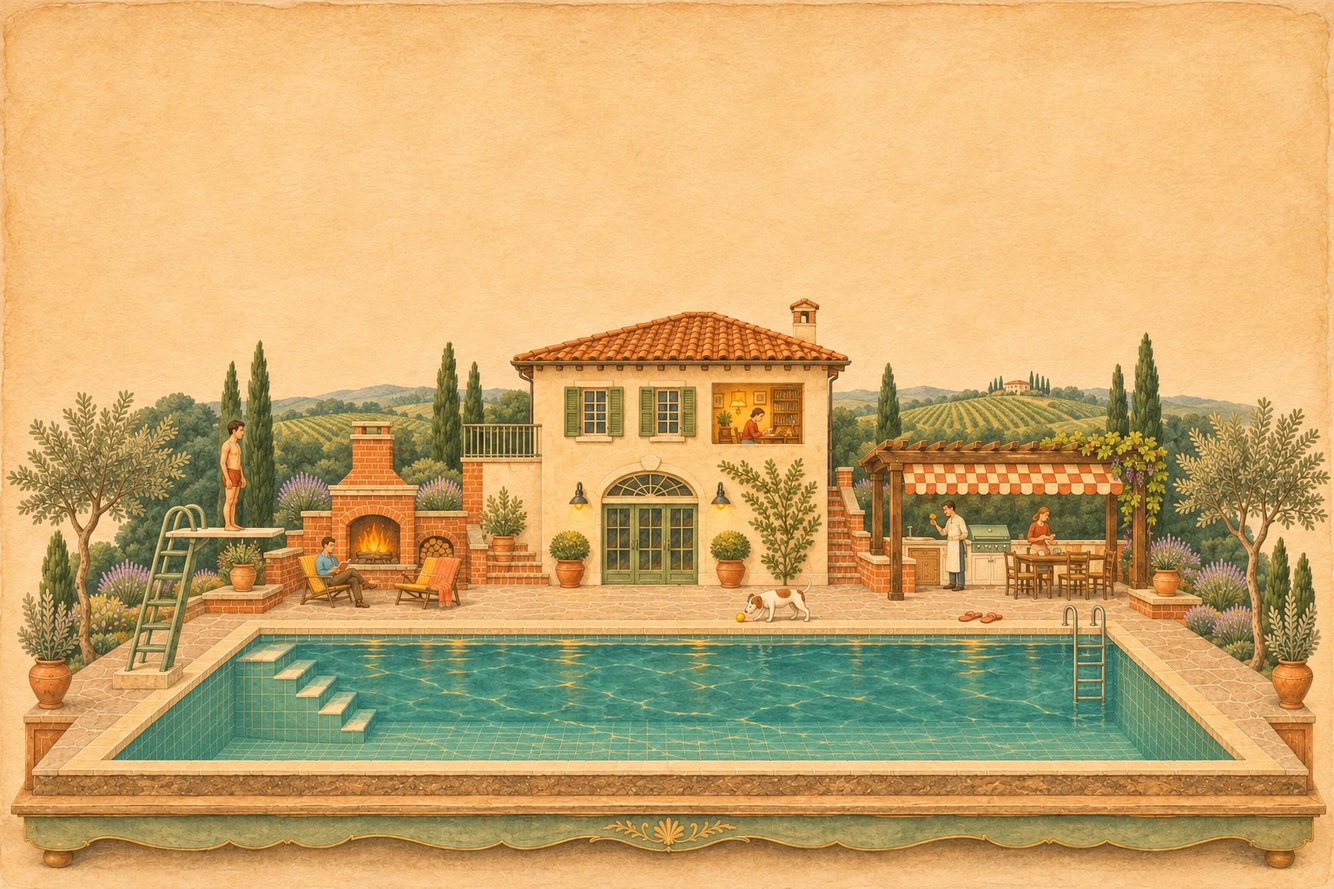
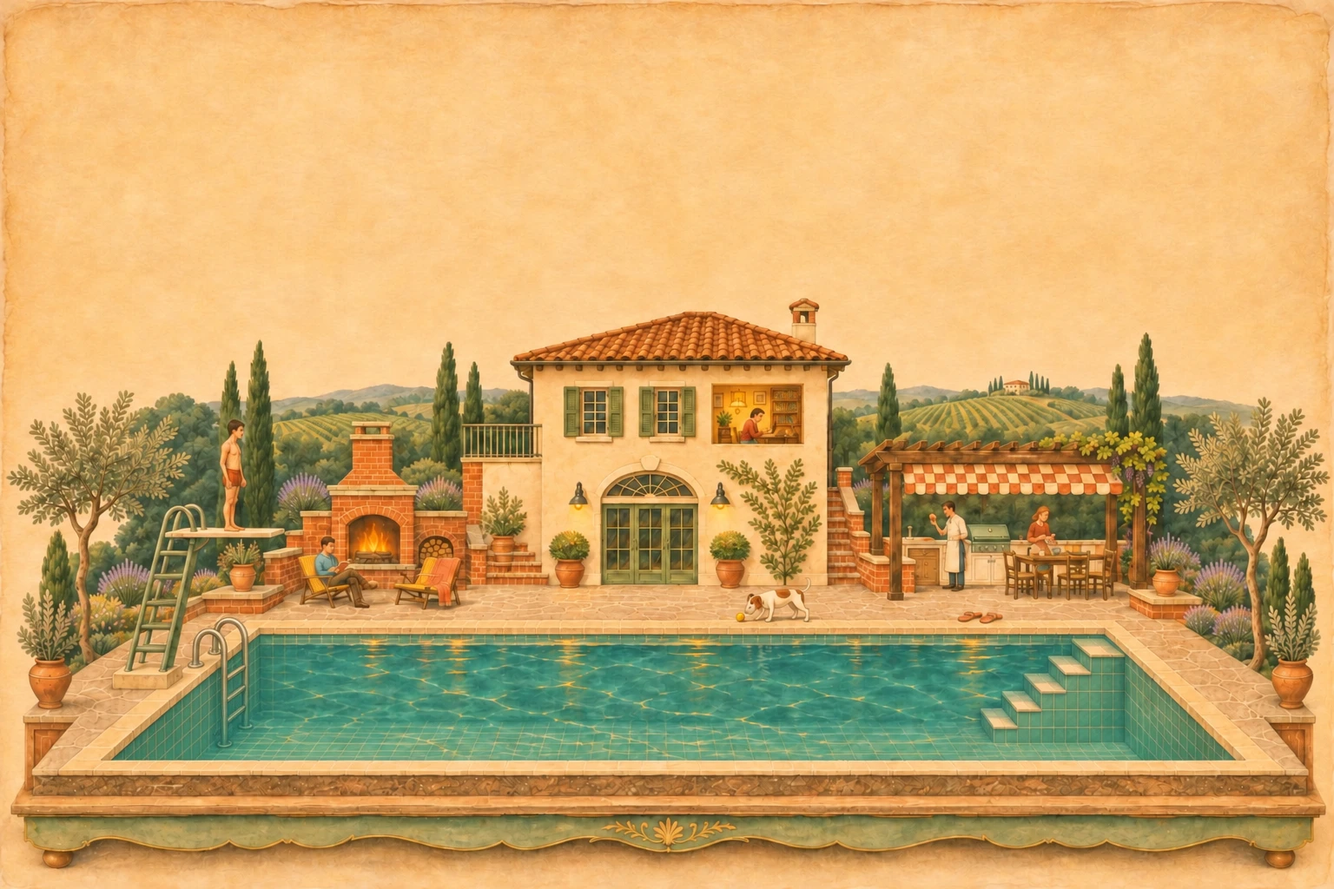
Carry the Italian villa identity through all website sections and fix pool access positions

diff --git a/public/index.html b/public/index.html
@@ -1,6 +1,6 @@
 <!DOCTYPE html>
 
-<html lang="en"><head><meta charset="utf-8"/><meta content="width=device-width,initial-scale=1,viewport-fit=cover" name="viewport"/><meta content="index,follow" name="robots"/><meta content="#f8f1e5" name="theme-color"/><meta content="Family-owned custom pool and complete backyard builder serving Denton County and North Texas." name="description"/><title>Collins Custom Pools &amp; Backyards | Denton County, Texas</title><link rel="canonical" href="https://collins-website.chasehess-hq.workers.dev/"/><meta property="og:type" content="website"/><meta property="og:title" content="Collins Custom Pools &amp; Backyards"/><meta property="og:description" content="Family-owned. Custom pools and complete backyards in Denton County and surrounding North Texas communities. Come on out. Have a look around."/><meta property="og:url" content="https://collins-website.chasehess-hq.workers.dev/"/><meta property="og:image" content="https://collins-website.chasehess-hq.workers.dev/assets/collins-cover.webp"/><meta property="og:image:alt" content="The illustrated Collins backyard, with a pool, fireplace, outdoor kitchen and tiny submarine."/><meta name="twitter:card" content="summary_large_image"/><link as="image" href="assets/collins-cover.webp" rel="preload"/><link href="styles.css?v=quiet-cover01" rel="stylesheet"/><link href="launch.css?v=quiet-cover01" rel="stylesheet"/><link href="native-journey.css?v=quiet-cover01" rel="stylesheet"/><link href="world.css?v=quiet-cover01" rel="stylesheet"/><link href="photography.css?v=quiet-cover01" rel="stylesheet"/><link href="recovery.css?v=quiet-cover01" rel="stylesheet"/><script>document.documentElement.dataset.js='true';document.documentElement.dataset.route=(!location.hash||location.hash==='#backyard')?'world':location.hash==='#launch'?'launch':location.hash==='#pool'?'pool':'site';addEventListener('hashchange',()=>{if(!window.COLLINS_READY&&location.hash&&location.hash!=='#pool'&&location.hash!=='#launch'){document.documentElement.dataset.route='site';const main=document.getElementById('website');if(main)main.inert=false;document.querySelectorAll('.launch,.pool').forEach(el=>el.inert=true);}});</script><script defer="" src="site-config.js?v=quiet-cover01"></script><script defer="" src="launch.js?v=quiet-cover01"></script><script defer="" src="postcards.js?v=quiet-cover01"></script><script defer="" src="photography.js?v=quiet-cover01"></script><script defer="" src="catalog.js?v=quiet-cover01"></script><script defer="" src="expedition.js?v=quiet-cover01"></script><script defer="" src="studio.js?v=quiet-cover01"></script><script defer="" src="world.js?v=quiet-cover01"></script><script defer="" src="recovery.js?v=quiet-cover01"></script><script defer="" src="stories.js?v=quiet-cover01"></script><link href="backyard.css?v=quiet-cover01" rel="stylesheet"/><script defer="" src="backyard.js?v=quiet-cover01"></script><script defer="" src="project-notes.js?v=quiet-cover01"></script><link href="illustration.css?v=quiet-cover01" rel="stylesheet"/><link href="storybook.css?v=quiet-cover01" rel="stylesheet"/><script defer src="sound.js?v=quiet-cover01"></script><link href="cover.css?v=quiet-cover01" rel="stylesheet"/><link href="fullscreen.css?v=full-art01" rel="stylesheet"/></head><body>
+<html lang="en"><head><meta charset="utf-8"/><meta content="width=device-width,initial-scale=1,viewport-fit=cover" name="viewport"/><meta content="index,follow" name="robots"/><meta content="#f8f1e5" name="theme-color"/><meta content="Family-owned custom pool and complete backyard builder serving Denton County and North Texas." name="description"/><title>Collins Custom Pools &amp; Backyards | Denton County, Texas</title><link rel="canonical" href="https://collins-website.chasehess-hq.workers.dev/"/><meta property="og:type" content="website"/><meta property="og:title" content="Collins Custom Pools &amp; Backyards"/><meta property="og:description" content="Family-owned. Custom pools and complete backyards in Denton County and surrounding North Texas communities. Come on out. Have a look around."/><meta property="og:url" content="https://collins-website.chasehess-hq.workers.dev/"/><meta property="og:image" content="https://collins-website.chasehess-hq.workers.dev/assets/collins-cover.webp"/><meta property="og:image:alt" content="The illustrated Collins backyard, with a pool, fireplace, outdoor kitchen and tiny submarine."/><meta name="twitter:card" content="summary_large_image"/><link as="image" href="assets/collins-cover.webp" rel="preload"/><link href="styles.css?v=quiet-cover01" rel="stylesheet"/><link href="launch.css?v=quiet-cover01" rel="stylesheet"/><link href="native-journey.css?v=quiet-cover01" rel="stylesheet"/><link href="world.css?v=quiet-cover01" rel="stylesheet"/><link href="photography.css?v=quiet-cover01" rel="stylesheet"/><link href="recovery.css?v=quiet-cover01" rel="stylesheet"/><script>document.documentElement.dataset.js='true';document.documentElement.dataset.route=(!location.hash||location.hash==='#backyard')?'world':location.hash==='#launch'?'launch':location.hash==='#pool'?'pool':'site';addEventListener('hashchange',()=>{if(!window.COLLINS_READY&&location.hash&&location.hash!=='#pool'&&location.hash!=='#launch'){document.documentElement.dataset.route='site';const main=document.getElementById('website');if(main)main.inert=false;document.querySelectorAll('.launch,.pool').forEach(el=>el.inert=true);}});</script><script defer="" src="site-config.js?v=quiet-cover01"></script><script defer="" src="launch.js?v=quiet-cover01"></script><script defer="" src="postcards.js?v=quiet-cover01"></script><script defer="" src="photography.js?v=quiet-cover01"></script><script defer="" src="catalog.js?v=quiet-cover01"></script><script defer="" src="expedition.js?v=quiet-cover01"></script><script defer="" src="studio.js?v=quiet-cover01"></script><script defer="" src="world.js?v=quiet-cover01"></script><script defer="" src="recovery.js?v=quiet-cover01"></script><script defer="" src="stories.js?v=quiet-cover01"></script><link href="backyard.css?v=quiet-cover01" rel="stylesheet"/><script defer="" src="backyard.js?v=quiet-cover01"></script><script defer="" src="project-notes.js?v=quiet-cover01"></script><link href="illustration.css?v=quiet-cover01" rel="stylesheet"/><link href="storybook.css?v=quiet-cover01" rel="stylesheet"/><script defer src="sound.js?v=quiet-cover01"></script><link href="cover.css?v=quiet-cover01" rel="stylesheet"/><link href="fullscreen.css?v=full-art01" rel="stylesheet"/><link href="villa.css?v=villa-world01" rel="stylesheet"/></head><body>
 <a class="skip-link" href="#work">Skip the artwork · View all projects</a>
 <header class="site-header"><a aria-label="Collins home — the illustrated backyard" class="brand" href="#backyard"><img alt="Collins Custom Pools &amp; Backyards" class="brand-art" height="150" src="assets/collins-wordmark.svg" width="560"/></a><div class="header-location"><span>FAMILY OWNED. NORTH TEXAS.</span><span>Custom pools &amp; complete backyards.</span></div><nav aria-label="Main navigation" class="main-nav"><a class="surface-link" href="#backyard"><span class="surface-verb">The backyard</span></a><a href="#build">Services</a><a href="#work">Our work</a><a class="project-link" href="#project">Start a project <span aria-hidden="true">↗</span></a></nav></header>
 <section class="backyard" id="backyard" aria-labelledby="backyard-title" tabindex="-1">
@@ -48,7 +48,7 @@
 <div class="journey" id="journey"><section class="pool pool-session" id="pool" aria-label="The Collins pool and submarine" tabindex="-1">
  <div class="pool-window">
   <div class="pool-scene" id="pool-scene">
-   <img class="pool-scene-art" src="assets/collins-cover.webp" width="1536" height="1024" alt="The same simple Collins backyard above a calm turquoise pool, with solid entry steps on the left."/>
+   <img class="pool-scene-art" src="assets/collins-cover.webp" width="1536" height="1024" alt="The same simple Collins backyard above a calm turquoise pool, with solid entry steps on the right."/>
    <div class="pool-ripples" aria-hidden="true"></div><div class="pool-light-glow" aria-hidden="true"></div>
    <div class="pool-dog" aria-hidden="true"><img src="assets/dog-swimming.webp" width="1536" height="1024" alt=""/></div>
    <div class="pool-diver" aria-hidden="true"><img src="assets/diver-swimming.webp" width="1536" height="1024" alt=""/></div>
@@ -63,7 +63,7 @@
 <div class="poolside-manifest"><span>THE POOL SURVEY / VESSEL 01</span><p>You’ve seen the view from below. Now picture the life around it.</p><a href="#launch">Board the submarine ↗</a></div><div class="home-caption"><span>Custom pools &amp; backyards · Denton County &amp; North Texas</span><a href="#pool">Take the underwater route ↓</a></div>
 </section>
 <section aria-labelledby="build-title" class="build-section section-pad" id="build" tabindex="-1"><div class="section-intro"><div><p class="eyebrow">COLLINS / SERVICES</p><h2 id="build-title">Custom pools.<br/><em>Complete backyards.</em></h2></div><p>Custom pools, spas, patios, outdoor kitchens, shade structures, turf and fire features.</p></div><div class="backyard-desk" id="backyard-desk"><div class="desk-study"><div class="desk-art" id="desk-art"><img id="desk-art-image" alt="The illustrated Collins backyard: a pool, outdoor kitchen, checkerboard awning and brick fireplace. Choose a place to explore." width="1672" height="941" loading="lazy" src="assets/collins-cover.webp"/><div aria-label="Explore the backyard drawing" class="study-hotspots"><button aria-label="Explore the pool" aria-pressed="true" class="study-hotspot spot-swim" data-backyard="swim">01</button><button aria-label="Explore the outdoor kitchen" aria-pressed="false" class="study-hotspot spot-cook" data-backyard="cook">02</button><button aria-label="Explore shade and pergolas" aria-pressed="false" class="study-hotspot spot-shade" data-backyard="shade">03</button><button aria-label="Explore patios and fire features" aria-pressed="false" class="study-hotspot spot-stay" data-backyard="stay">04</button></div></div><p class="desk-art-note" id="desk-art-note">AN ILLUSTRATED COLLINS BACKYARD / CHOOSE A PLACE TO BEGIN.</p></div><div class="desk-notes"><p class="eyebrow">WHAT WE BUILD</p><div aria-label="Backyard possibilities" class="desk-selectors"><button aria-pressed="true" data-backyard="swim">01 <span>Swim</span></button><button aria-pressed="false" data-backyard="cook">02 <span>Cook</span></button><button aria-pressed="false" data-backyard="shade">03 <span>Shade</span></button><button aria-pressed="false" data-backyard="stay">04 <span>Stay</span></button></div><div aria-atomic="true" aria-live="polite" class="desk-story"><span class="eyebrow" id="desk-number">FIELD NOTE 01</span><h3 id="desk-title">The long way<br/>through an afternoon.</h3><p id="desk-description">A few laps. A shallow step. A spa when the air gets cool. A custom pool begins with how you want to spend your time.</p><p class="desk-materials" id="desk-materials">CUSTOM POOLS / SPAS / POOL REMODELS</p></div><a class="desk-examples" href="#experience/pools" id="desk-examples">See the real pool albums ↗</a><a class="desk-carry" href="#project" id="desk-carry">Put a pool in my brief <span aria-hidden="true">↗</span></a><p class="desk-disclaimer">A drawing to start a conversation.<br/>Your yard will have a plan of its own.</p></div></div><div class="service-list"><details open=""><summary><span>01</span>New custom pools <span aria-hidden="true">+</span></summary><div><p>A custom pool starts with your yard and how you want to use it. Shape, swim space, steps, spa, and the places around the water all belong in the conversation.</p><a data-interest="New custom pool" href="#project">Talk about a pool ↗</a></div></details><details><summary><span>02</span>Complete backyards <span aria-hidden="true">+</span></summary><div><p>Patios, pergolas and shade structures, outdoor kitchens, turf, and fire features—planned around the pool and the life you want out back.</p><a data-interest="Complete backyard" href="#project">Plan the whole backyard ↗</a></div></details><details><summary><span>03</span>Spas &amp; pool remodels <span aria-hidden="true">+</span></summary><div><p>A spa, a pool refresh, or a different way to use the space you already have. Bring your ideas and a few photographs; we can start there.</p><a data-interest="Pool remodel or spa" href="#project">Discuss your existing space ↗</a></div></details></div></section>
-<section aria-labelledby="work-title" class="work-section section-pad" id="work" tabindex="-1"><div class="section-intro"><div><p class="eyebrow">COLLINS / PROJECTS</p><h2 id="work-title">The project<br/><em>postcards.</em></h2></div><p>Eight projects. Ninety-four photographs.</p></div><div class="project-album" hidden="" id="project-album"></div><div class="album-index" id="album-index"></div><div class="album-placeholder shelf-note" id="album-placeholder"><span aria-hidden="true" class="album-corners"></span><span class="eyebrow">PHOTOGRAPH COLLECTION IN PREPARATION</span><p>The photographs are on their way.</p><span>These are draft albums. Their names are supplied; their photographs and project details are still to come.</span><a href="#project">Tell us what you have in mind ↗</a></div></section>
+<section aria-labelledby="work-title" class="work-section section-pad" id="work" tabindex="-1"><div class="section-intro"><div><p class="eyebrow">COLLINS / PROJECTS</p><h2 id="work-title">The backyard<br/><em>albums.</em></h2></div><p>Eight projects. Ninety-four photographs.</p></div><div class="project-album" hidden="" id="project-album"></div><div class="album-index" id="album-index"></div><div class="album-placeholder shelf-note" id="album-placeholder"><span aria-hidden="true" class="album-corners"></span><span class="eyebrow">PHOTOGRAPH COLLECTION IN PREPARATION</span><p>The photographs are on their way.</p><span>These are draft albums. Their names are supplied; their photographs and project details are still to come.</span><a href="#project">Tell us what you have in mind ↗</a></div></section>
 <section aria-labelledby="about-title" class="about-section section-pad" id="about"><div><p class="eyebrow">COLLINS / ABOUT</p><h2 id="about-title">A family business.<br/><em>Close to home.</em></h2><p>We're Collins Custom Pools &amp; Backyards, a family-owned builder serving Denton County and surrounding North Texas communities.</p><p>We're based in the Aubrey area. Our work centers on new custom pools and complete backyard projects, with space for the things that make a yard yours.</p></div><aside class="area-card"><span aria-hidden="true" class="area-stamp">BASED IN<br/><b>AUBREY</b><br/>TEXAS</span><span class="eyebrow">OUR CORNER OF TEXAS</span><strong>Denton County<br/>&amp; beyond.</strong><p>Aubrey · Denton · Little Elm<br/>Prosper · Celina · Frisco<br/>and surrounding communities.</p><a href="#project">Tell us where you're building ↗</a></aside></section>
 <section aria-labelledby="project-title" class="project-section section-pad" id="project" tabindex="-1"><div><p class="eyebrow">COLLINS / CONTACT</p><h2 id="project-title">Tell us about<br/><em>your backyard.</em></h2><p>A whole new pool, the entire backyard, or a space that needs another look.</p><div class="contact-actions" hidden="" id="contact-actions"><a class="ink-button" id="call-collins">Call Collins ↗</a><a id="text-collins">Text us →</a></div><p class="contact-pending" id="contact-pending">Call or text Collins to start a conversation.</p><p class="preview-note"><strong>Your backyard, in a few words.</strong><br/>Prepare a short note, review it, then open it in Messages. You choose when to send. You can call or text us directly, too.</p></div><form id="project-form"><div class="brief-letterhead"><span>COLLINS / PROJECT NOTES</span><span>No. 001</span></div><ol class="note-steps" aria-label="How your project note works"><li>Write a little</li><li>Review your note</li><li>Open in Messages</li></ol><fieldset disabled="" id="brief-fields"><div class="form-row"><label>Your name<input autocomplete="name" maxlength="100" name="name" required=""/></label><label>Phone number<input autocomplete="tel" maxlength="40" name="phone" required="" type="tel"/></label></div><label>Town or neighborhood<input autocomplete="address-level2" maxlength="120" name="location" required=""/></label><label>What are you thinking?<select id="interest" name="interest"><option>New custom pool</option><option>Complete backyard</option><option>Pool remodel or spa</option><option>Outdoor living project</option></select></label><label>A little about your idea<textarea maxlength="3000" name="idea" placeholder="How do you want to spend your time out back?" rows="3"></textarea></label><button class="ink-button" type="submit">Prepare my project note ↗</button><p class="form-privacy">Nothing is sent from this form. You review and send the note in your messaging app.</p><div class="draft-tools"><p class="draft-status" id="draft-status" role="status">Your draft is kept in this tab.</p><button id="clear-project-draft" type="button" hidden="">Clear this note</button></div><p class="form-privacy" id="brief-review-note" role="status"></p><div class="brief-review" hidden="" id="brief-review" tabindex="-1" aria-labelledby="brief-review-title"><p class="brief-preview-label">REVIEW BEFORE OPENING MESSAGES</p><h3 id="brief-review-title">A note for Collins</h3><pre id="brief-text"></pre><div class="brief-delivery"><a class="ink-button" id="text-brief">Open this note in Messages ↗</a><button id="copy-brief" type="button">Copy note</button><button id="download-brief" type="button">Download a copy ↓</button></div><p id="delivery-status" role="status">Nothing has been sent. Review the message and tap Send in your messaging app. If the note does not fill in, use Copy note and paste it.</p></div></fieldset></form></section><footer class="site-footer"><a aria-label="Collins home — the illustrated backyard" class="brand" href="#backyard"><img alt="Collins Custom Pools &amp; Backyards" class="brand-art" height="150" src="assets/collins-wordmark.svg" width="560"/></a><p>Denton County &amp; North Texas<br/>Family-owned custom pool &amp; backyard builder.</p><a href="#launch">Board the submarine again ↓</a><small>Painted backyard scenes are illustrative. Project photographs are supplied separately. <a href="#studio">Owner album studio ↗</a></small></footer></main>
 <div aria-hidden="true" class="surface-transition" id="surface-transition"><div></div><span>COLLINS</span></div><noscript><style>.pool,.launch{display:none!important}#website{display:block!important}</style><p class="noscript-note">The pool expedition and project brief need JavaScript. You can browse Collins services and company information below. <a href="tel:+14695007713">Call Collins at 469-500-7713</a>.</p></noscript><svg aria-hidden="true" class="water-optics" height="0" width="0" xmlns="http://www.w3.org/2000/svg"><defs><filter color-interpolation-filters="sRGB" height="116%" id="dog-water-refraction" width="116%" x="-8%" y="-8%"><feturbulence basefrequency="0.015 0.055" numoctaves="1" result="water-noise" seed="11" type="fractalNoise"></feturbulence><fedisplacementmap in="SourceGraphic" in2="water-noise" result="refracted" scale="4" xchannelselector="R" ychannelselector="G"></fedisplacementmap><fecolormatrix in="refracted" type="matrix" values=".72 0 .08 0 .01 .06 .83 .04 0 .02 .06 .13 .80 0 .04 0 0 0 1 0"></fecolormatrix></filter></defs></svg></body></html>

diff --git a/public/villa.css b/public/villa.css
@@ -1,0 +1,96 @@
+/* One Collins villa, from the painted cover to the photographic folios. */
+:root{--villa-paper:#f2e5c9;--villa-sheet:#fbf3e2;--villa-ink:#344d40;--villa-terra:#a75940;--villa-brass:#b59458;--villa-rule:#927c5147;--cream:var(--villa-paper);--ink:var(--villa-ink);--espresso:#352f27;--coral:var(--villa-terra);--survey-ink:var(--villa-ink);--survey-paper:var(--villa-paper);--survey-brass:var(--villa-brass)}
+html:not([data-route=world]),html:not([data-route=world]) body{background:var(--villa-paper);color:var(--villa-ink)}
+html:not([data-route=world]) .site-header{background:var(--villa-paper);border-bottom:3px double var(--villa-rule);padding-inline:4%;color:var(--villa-ink)}
+html:not([data-route=world]) .main-nav{font:14px Georgia,serif;gap:27px}
+html:not([data-route=world]) .main-nav .project-link{background:var(--villa-ink);border:1px solid var(--villa-ink);color:var(--villa-sheet);font-style:italic;padding:0 18px}
+html:not([data-route=world]) .main-nav a:hover{color:var(--villa-terra)}
+html:not([data-route=world]) .main-nav .project-link:hover{background:#52664a;color:var(--villa-sheet)}
+html:not([data-route=world]) .header-location{font:12px/1.5 Georgia,serif}
+html:not([data-route=world]) .header-location span:first-child{font:9px/1.5 Georgia,serif;letter-spacing:1.4px}
+html:not([data-route=world]) .eyebrow{font:10px/1.5 Georgia,serif;letter-spacing:1.5px;color:var(--villa-terra)}
+html:not([data-route=world]) .section-pad{padding-block:70px}
+html:not([data-route=world]) .section-intro{align-items:end;margin-bottom:42px;gap:48px}
+html:not([data-route=world]) .section-intro h2{font:400 clamp(43px,5.5vw,76px)/1.06 Georgia,serif;letter-spacing:-2px;color:var(--villa-ink)}
+html:not([data-route=world]) .section-intro>p{font:16px/1.8 Georgia,serif;max-width:400px}
+html:not([data-route=world]) .ink-button{background:var(--villa-ink);border-color:var(--villa-ink);color:var(--villa-sheet);font-family:Georgia,serif}
+html:not([data-route=world]) .ink-button:hover{background:var(--villa-terra);border-color:var(--villa-terra)}
+.build-section,.work-section,.about-section,.project-section,.studio-section{background:var(--villa-paper)!important;color:var(--villa-ink)}
+.backyard-desk{border:1px solid var(--villa-rule);background:var(--villa-sheet);box-shadow:0 6px 0 #b5945812}
+#backyard-desk .desk-study{background:var(--villa-sheet);padding:18px}
+#backyard-desk .desk-art{border:0;background:var(--villa-paper)}
+#backyard-desk .desk-notes{background:var(--villa-sheet);padding:35px}
+#backyard-desk .desk-selectors{border-color:var(--villa-rule)}
+#backyard-desk .desk-selectors button{font:13px Georgia,serif;min-height:46px;color:var(--villa-ink)}
+#backyard-desk .desk-selectors button[aria-pressed=true]{color:var(--villa-terra);border-color:var(--villa-terra)}
+#backyard-desk .desk-story h3{font:400 34px/1.14 Georgia,serif;color:var(--villa-ink)}
+#backyard-desk .desk-story p{font:15px/1.8 Georgia,serif}
+#backyard-desk .desk-story .desk-materials{font:10px/1.8 Georgia,serif;letter-spacing:.8px;color:#706b53}
+#backyard-desk .desk-examples,#backyard-desk .desk-carry{font:14px/1.5 Georgia,serif;color:var(--villa-ink)}
+.service-list{border-color:var(--villa-rule)}
+.service-list details{border-color:var(--villa-rule)}
+.service-list summary{font:22px/1.4 Georgia,serif;color:var(--villa-ink);min-height:65px}
+.service-list details>div{font:15px/1.8 Georgia,serif}.service-list details a{color:var(--villa-terra)}
+.album-index>.album-entry.postcard,.album-index>.album-entry.postcard:hover{background:var(--villa-sheet);color:var(--villa-ink);border:1px solid var(--villa-rule)}
+.album-index>.album-entry.postcard>.postcard-picture{inset:12px 12px 25%}
+.album-index>.album-entry.postcard .postcard-title{left:18px;right:18px;bottom:10%;font-size:clamp(24px,2.4vw,34px)}
+.album-index>.album-entry.postcard .postcard-meta{left:18px;bottom:4%;font:11px Georgia,serif;color:#766d57}
+.album-detail.photographic-album{--card-paper:var(--villa-paper)!important;--card-ink:var(--villa-ink)!important;--card-accent:var(--villa-brass)!important;background:var(--villa-paper)!important;color:var(--villa-ink)!important}
+.photographic-album .photographic-heading{padding-block:42px;border-bottom:3px double var(--villa-rule)!important}
+.photographic-album .photographic-heading h1{color:var(--villa-ink);font-size:clamp(52px,6.7vw,94px)}
+.photographic-album .photographic-topline,.photographic-album .photographic-count,.photographic-album .photographic-jumps button,.photographic-album figcaption{font-family:Georgia,serif;color:var(--villa-ink)}
+.photographic-album .photographic-topline{font-size:12px;border-color:var(--villa-rule)}
+.photographic-album .photo-open{padding:10px;background:var(--villa-sheet)!important;border:1px solid var(--villa-rule)}
+.photographic-album .editorial-photo figcaption{font:12px/1.6 Georgia,serif;padding-top:12px;color:#6b654f}
+.photographic-album .photographic-jumps button{font-size:13px}
+.photographic-album .photographic-all-heading,.photographic-album .photographic-chapter-heading{border-color:var(--villa-rule)}
+.photographic-album .photographic-album-end{border-color:var(--villa-rule)}
+.feature-detail{color:var(--villa-ink);background:var(--villa-paper)}
+.feature-backline,.feature-corners,.feature-end{border-color:var(--villa-rule);font-family:Georgia,serif}
+.feature-backline{font-size:12px;letter-spacing:0}
+.feature-description{font:16px/1.8 Georgia,serif}
+.feature-introduction h1{font:400 clamp(46px,5vw,74px)/1.05 Georgia,serif;color:var(--villa-ink)}
+.feature-card .feature-photo-mount{padding:10px;background:var(--villa-sheet);border:1px solid var(--villa-rule)}
+.feature-card figcaption{border-color:var(--villa-rule);padding:17px 0 22px}
+.feature-card strong{font:400 25px/1.2 Georgia,serif;color:var(--villa-ink)}
+.feature-card .feature-photo-caption{font:13px/1.6 Georgia,serif;color:#6b654f}
+.about-section{border-block:1px solid var(--villa-rule)}
+.about-section h2,.project-section h2{font-family:Georgia,serif;color:var(--villa-ink)}
+.about-section p,.project-section>div>p{font:16px/1.8 Georgia,serif;max-width:500px}
+.area-card{background:var(--villa-sheet);border:1px solid var(--villa-rule);color:var(--villa-ink);box-shadow:none;transform:none}
+.area-card .area-stamp{background:none;border:1px solid var(--villa-brass);color:var(--villa-ink)}
+#project-form{background:var(--villa-sheet);border:1px solid var(--villa-rule);box-shadow:0 6px 0 #b5945812;color:var(--villa-ink);transform:none}
+#project-form .brief-letterhead{font:11px Georgia,serif;letter-spacing:1.3px;border-bottom:3px double var(--villa-rule);color:var(--villa-terra)}
+#project-form label{font:13px/1.5 Georgia,serif;letter-spacing:0}
+#project-form input,#project-form select,#project-form textarea{font:16px/1.5 Georgia,serif;background:#fffaf0;border:1px solid #a59a7d;color:#352f27;border-radius:0;padding:12px;min-height:46px}
+#project-form input:focus,#project-form select:focus,#project-form textarea:focus{outline-color:var(--villa-terra)}
+#project-form .form-privacy,#project-form .draft-status{font:12px/1.65 Georgia,serif;color:#72694f}
+#project-form .note-steps{font:12px Georgia,serif;color:#766d57}
+#project-form .brief-review{background:var(--villa-paper);border-color:var(--villa-rule)}
+#project-form pre{white-space:pre-wrap;overflow-wrap:anywhere;font:14px/1.8 Georgia,serif}
+.site-footer{border-top:3px double var(--villa-rule);background:var(--villa-sheet);color:var(--villa-ink);font-family:Georgia,serif}
+.site-footer small{font:11px/1.7 Georgia,serif;max-width:300px}
+.launch,.launch-stage,.launch-set,.pool-session .pool-window,.pool-session .pool-actions,.launch-footer{background:var(--villa-paper)}
+.launch-footer,.pool-actions{border-top:3px double var(--villa-rule);color:var(--villa-ink);font-family:Georgia,serif}
+.launch-instruction>span,.launch-footer>a{font-family:Georgia,serif}
+.board-button{background:var(--villa-ink);border-color:var(--villa-ink);font:italic 16px Georgia,serif;color:var(--villa-sheet)}
+.cockpit-enamel{background-color:var(--villa-paper);box-shadow:inset 0 0 50px #8f845355}
+.cockpit-rim{border-color:#c4a86f;box-shadow:0 0 0 2px #7f704d,0 0 0 6px #e3cf9c,inset 0 0 0 3px #83754f}
+.studio-section input,.studio-section textarea,.studio-section select{background:var(--villa-sheet);border:1px solid var(--villa-rule);font-family:Georgia,serif}
+@media(max-width:720px){
+ html:not([data-route=world]) .site-header{padding-inline:18px}
+ html:not([data-route=world]) .main-nav{font-size:12px;gap:15px}
+ html:not([data-route=world]) .main-nav .project-link{padding-inline:10px}
+ html:not([data-route=world]) .section-pad{padding-block:42px}
+ html:not([data-route=world]) .section-intro{gap:20px;margin-bottom:28px}
+ html:not([data-route=world]) .section-intro h2{font-size:43px}
+ #backyard-desk .desk-study{padding:10px}#backyard-desk .desk-notes{padding:23px}
+ .feature-introduction h1{font-size:43px}.feature-backline{font-size:11px}
+ .album-index>.album-entry.postcard .postcard-title{font-size:25px}
+ .photographic-album .photographic-heading h1{font-size:49px}
+ .photographic-album .photo-open{padding:5px}.photographic-album .photographic-topline{font-size:11px}
+ #project-form input,#project-form select,#project-form textarea{font-size:16px}
+}
+#backyard-desk .spot-swim{left:50%;top:81%}#backyard-desk .spot-cook{left:77%;top:65%}#backyard-desk .spot-shade{left:77%;top:53%}#backyard-desk .spot-stay{left:27%;top:62%}
+.photograph-viewer{background:#263b31;color:#f6ead0;border-color:var(--villa-brass)}
+.viewer-header,.viewer-bottom{border-color:#d2ba7b55}.viewer-count,.viewer-close{font-family:Georgia,serif}

diff --git a/public/holding.html b/public/holding.html
@@ -5,12 +5,12 @@
     <meta name="viewport" content="width=device-width, initial-scale=1">
     <meta name="robots" content="noindex, nofollow">
     <meta name="description" content="Collins Custom Pools & Backyards. Custom pools, spas, and complete backyard projects in Denton County and North Texas. Explore our illustrated backyard and real project albums.">
-    <meta name="theme-color" content="#f5efdf">
+    <meta name="theme-color" content="#f2e5c9">
     <title>Come on out | Collins Custom Pools & Backyards</title>
     <style>
-      :root { color-scheme: light; --cream: #f5efdf; --ink: #244c53; --red: #a54738; }
+      :root { color-scheme: light; --cream: #f2e5c9; --ink: #344d40; --red: #a75940; }
       * { box-sizing: border-box; }
-      body { margin: 0; background: var(--cream); color: var(--ink); font-family: Arial, Helvetica, sans-serif; }
+      body { margin: 0; background: var(--cream); color: var(--ink); font-family: Georgia, serif; }
       main { min-height: 100svh; display: grid; place-items: center; padding: clamp(16px, 5vw, 64px); }
       .card { width: min(100%, 1040px); border: 1px solid var(--ink); padding: clamp(24px, 6vw, 72px); text-align: center; position: relative; }
       .card::before { content: ""; position: absolute; inset: 7px; border: 1px solid var(--ink); pointer-events: none; opacity: .35; }

diff --git a/public/404.html b/public/404.html
@@ -7,11 +7,11 @@
     <title>Page Not Found | Collins Custom Pools &amp; Backyards</title>
     <style>
       * { box-sizing: border-box; }
-      body { margin: 0; min-height: 100svh; display: grid; place-items: center; padding: 28px; background: #f5efdf; color: #244c53; font: 17px/1.7 Arial, Helvetica, sans-serif; }
+      body { margin: 0; min-height: 100svh; display: grid; place-items: center; padding: 28px; background: #f2e5c9; color: #344d40; font: 17px/1.7 Georgia, serif; }
       main { max-width: 540px; }
       h1 { font: 400 clamp(32px, 7vw, 52px)/1.15 Georgia, serif; }
       a { display: inline-block; padding: 12px 0; color: inherit; text-underline-offset: 5px; }
-      a:focus-visible { outline: 3px solid #a54738; outline-offset: 5px; }
+      a:focus-visible { outline: 3px solid #a75940; outline-offset: 5px; }
     </style>
   </head>
   <body>

diff --git a/public/fullscreen.css b/public/fullscreen.css
@@ -65,3 +65,4 @@ html[data-route=world] .world-vessel{left:67%;top:79%;width:10%}
 html[data-time=evening][data-route=world] .site-header{color:#244a50}
 html[data-time=evening][data-route=world] .site-header .brand-art{filter:none}
 html[data-route=world] .world-vessel{left:68%;top:74%;width:9%}
+html[data-route=world] .world-vessel{left:55%;top:74%;width:9%}

diff --git a/docs/FULL_ART_HOME.md b/docs/FULL_ART_HOME.md
@@ -9,3 +9,11 @@ The new master was edited with the built-in image tool from the exact supplied s
 Services, real photographs, eight albums, contact note and confirmed phone remain unchanged. This Italian setting is imaginative artwork, not a completed Collins project or a change to the Texas service area.
 
 Validation: homepage and portrait/wide browser frames; navigation to project albums and services and back; source syntax and Wrangler dry-run. Browser frames are not physical devices. No native SMS/call was sent; no measured performance or screen-reader claim.
+
+Owner correction before publication: built-in pool stairs move to the RIGHT side, away from the LEFT diving board. The ordinary pool-entry ladder moves to the front-left corner, away from the board landing area. The diving board access ladder is retained. All routes still consume the same master asset.
+
+## Whole-site villa pass
+
+The owner asked to carry the villa identity through the entire site. villa.css now unifies service desk, real project shelf, all eight album themes, feature collections, about/service area, project-note form, footer, owner studio, boarding and cockpit: warm paper/sheet colors, muted green ink, terracotta links, antique brass rules, serif editorial navigation, consistent mounted photographs and readable form fields. Actual photography, factual copy and contact behavior remain intact. Left/right pool access correction uses one final master with RIGHT stairs and a LEFT-wall pool ladder; the diving board and upright diver remain left. Original final image output: generated_images/exec-362cf42c-f139-415b-b802-deff0751b2dd.png.
+
+Whole-site verification: desktop service desk, project shelf, Black Tie Barefoot album and viewer open/close; contact and album at 390px phone width; service hotspots realigned to new art; phone/contact details and photo catalog unchanged. Shared palette also covers static 404/holding fallbacks. No message sent.
